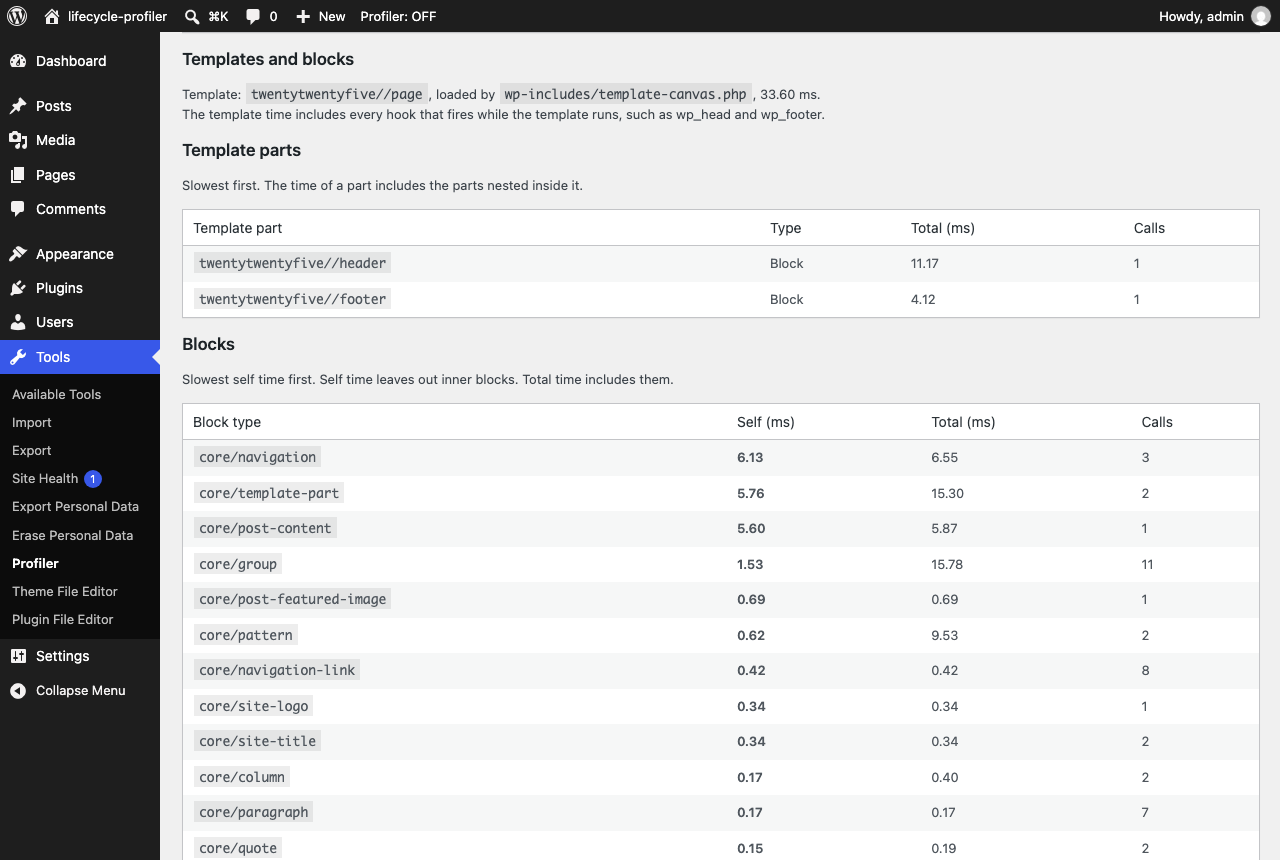
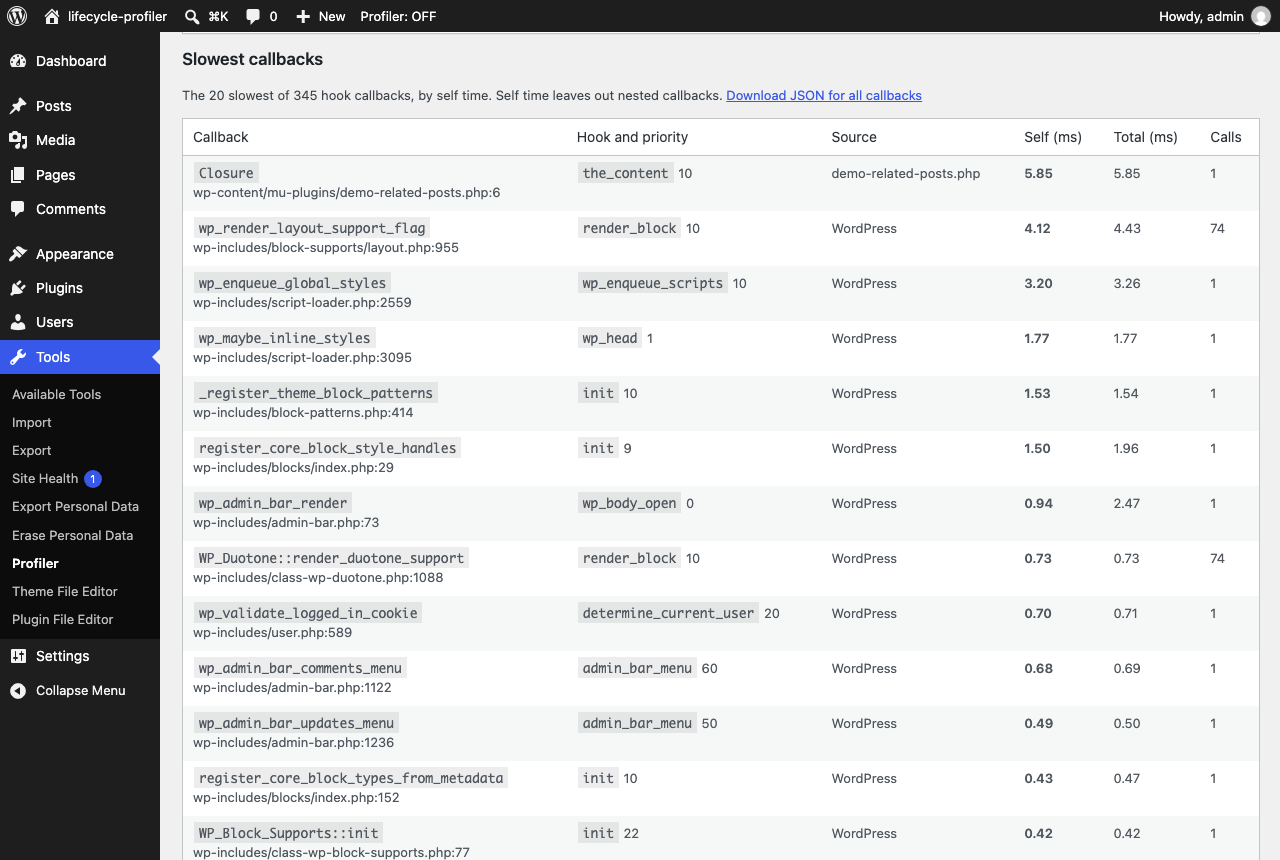
documentation: bring the README, readme and screenshots up to date for 1.0.0
- List every section of the report screen in screen order, including the
  slowest callbacks and the profiler time left out.
- Explain how the plugin differs from Query Monitor.
- Describe the loader rewrite and the multisite rule.
- Measure the overhead again with 1.0.0.
- Take the screenshots again and add one for the slowest callbacks.
- Say what the Excimer site is for.

diff --git a/bin/make-wordpress-org-assets.js b/bin/make-wordpress-org-assets.js
@@ -7,7 +7,8 @@
  * that folder to wordpress.org.
  *
  * Screenshots come from the wp-env development site, which must be running
- * and have at least two saved reports.
+ * and have at least two saved reports. The compare screenshot uses the two
+ * newest reports, so make them for the same page.
  *
  * Usage: node bin/make-wordpress-org-assets.js [--skip-screenshots]
  */
@@ -56,12 +57,15 @@ async function screenshots( browser ) {
 	await page.goto( site + '/wp-admin/tools.php?page=lifecycle-profiler' );
 	await shot( 1 );
 
-	await showHeading( 'Templates and blocks' );
+	await showHeading( 'Slowest callbacks' );
 	await shot( 2 );
+
+	await showHeading( 'Templates and blocks' );
+	await shot( 3 );
 
 	await page.goto( site + '/wp-admin/tools.php?page=lifecycle-profiler&view=compare' );
 	await showHeading( 'Plugins, themes and core' );
-	await shot( 3 );
+	await shot( 4 );
 
 	// Turn the session on for the admin bar screenshot, then off again.
 	const toggle = '#wp-admin-bar-lifecycle-profiler > a';
@@ -70,7 +74,7 @@ async function screenshots( browser ) {
 	await page.goto( site + '/sample-page/' );
 	await page.click( toggle );
 	await page.locator( toggle, { hasText: 'Profiler: ON' } ).waitFor();
-	await shot( 4 );
+	await shot( 5 );
 	await page.click( toggle );
 
 	await page.close();

diff --git a/README.md b/README.md
@@ -1,6 +1,6 @@
 # Lifecycle Profiler
 
-Lifecycle Profiler is a WordPress plugin that times the whole request. It measures bootstrap, the load time of each plugin and every hook callback. It sends the results in the `Server-Timing` header and offers a timing API.
+Lifecycle Profiler is a WordPress plugin that times the whole request. It measures bootstrap, the load time of each plugin, every hook callback, the template, template parts and blocks. It saves each run as a report, so you can compare a page before and after a change. It also sends the results in the `Server-Timing` header and offers a timing API.
 
 ## Status
 
@@ -19,12 +19,24 @@ Only users with the `manage_options` capability can start a session. Other visit
 
 The report shows:
 
-- the main phases of the request, from bootstrap to shutdown
-- load time and hook time for each plugin, theme and core
+- the request, the total time and how much profiler time it left out
+- load time and hook time for each mu-plugin, plugin, theme, drop-in and core
+- the 20 slowest hook callbacks, with the hook, the priority and the file and line where each one is defined
+- the main phases of the request, from bootstrap to shutdown. The phases add up to the total time.
 - the template, each template part and each block type, slowest first
 - custom spans from the timing API
 
-During a session, each response also has a `Server-Timing` header with the phase times. Your browser's developer tools show it in the network panel.
+The JSON download has every callback, not only the slowest 20.
+
+During a session, each response also has a `Server-Timing` header. It has one metric for each phase, and `lp-overhead` for the profiler time left out. Your browser's developer tools show it in the network panel.
+
+## How it differs from Query Monitor
+
+Query Monitor shows what happened during one request: database queries, HTTP calls, PHP errors, enqueued assets and more. It does not save anything, and it does not time each hook callback.
+
+Lifecycle Profiler shows where the time went. It times phases, plugin load, every callback, templates and blocks, and it saves reports so you can compare runs. It does not list queries or errors.
+
+The two plugins work well together. Use Query Monitor to find a slow query or an error. Use Lifecycle Profiler to measure the page before and after your fix. In an early review, the totals of both plugins matched for the same page.
 
 ## Timing API
 
@@ -38,7 +50,9 @@ Outside a profiling session, both functions do nothing, and `lifecycle_profiler_
 
 ## How it works
 
-On activation, the plugin writes `0-lifecycle-profiler-loader.php` to `mu-plugins/`. The loader runs before regular plugins, so the profiler can time plugin load. During a session, the profiler wraps every hook callback in a timer. At shutdown it saves the report in its own option, `lifecycle_profiler_report_{id}`, with autoload off. The `lifecycle_profiler_reports` option lists the saved reports. The `lifecycle_profiler_max_reports` filter changes how many reports to keep.
+On activation, the plugin writes `0-lifecycle-profiler-loader.php` to `mu-plugins/`. The loader runs before regular plugins, so the profiler can time plugin load. If the file is missing or out of date, an administrator's next admin page load writes it again. On deactivation, the plugin removes the file. On multisite, the file stays while the plugin is still active on another site or for the whole network.
+
+During a session, the profiler wraps every hook callback in a timer. At shutdown it saves the report in its own option, `lifecycle_profiler_report_{id}`, with autoload off. The `lifecycle_profiler_reports` option lists the saved reports. The `lifecycle_profiler_max_reports` filter changes how many reports to keep.
 
 ## Data and uninstall
 
@@ -60,17 +74,17 @@ Deleting the plugin removes every option that starts with `lifecycle_profiler_`,
 
 ## Overhead
 
-Without a session, the plugin adds about 1 ms to a page for visitors. During a session, it adds about 18 ms, or about 40%, because it wraps and times every hook callback.
+Without a session, the plugin adds about 1 ms or less to a page. During a session, it adds about 18 ms, or about 36%, because it wraps and times every hook callback.
 
 | Case | Logged out | Administrator |
 | --- | --- | --- |
-| Plugin inactive | 42.6 ms | 44.4 ms |
-| Plugin active, no session | 43.8 ms (+1.2 ms) | 47.8 ms (+3.4 ms) |
-| Plugin active, session | Not possible | 61.9 ms (+17.5 ms) |
+| Plugin inactive | 47.2 ms | 49.0 ms |
+| Plugin active, no session | 47.4 ms (+0.2 ms) | 50.4 ms (+1.3 ms) |
+| Plugin active, session | Not possible | 66.9 ms (+17.9 ms) |
 
-Each number is the median response time of `/sample-page/`, averaged over three runs. Each run made 100 requests per case after 10 warm-up requests. The site was the wp-env development site with PHP 7.4, WordPress 7.1.4 and Twenty Twenty-Five, in Docker on macOS.
+Each number is the median response time of `/sample-page/`, averaged over three runs. Each run made 100 requests per case after 10 warm-up requests. The site was the wp-env development site with PHP 7.4, WordPress 7.1.5 and Twenty Twenty-Five, in Docker on macOS. The numbers are from 2026-11-20, with version 1.0.0.
 
-The results change from run to run by up to about 4 ms. The administrator case without a session showed +0.8 ms to +4.9 ms. The session case gives the most stable result: +16.3 ms to +18.5 ms.
+The results change from run to run by up to about 2 ms. The administrator case without a session showed +1.0 ms to +1.5 ms. The session case showed +16.9 ms to +18.7 ms. It includes about 3 ms that the profiler spends at the start of each session to time its own costs.
 
 Reports leave out the profiler's own time. The profiler adds up the time its own code runs, and every time in a report subtracts it. Two costs happen outside the profiler's code: WordPress calling the profiler for every hook, and calling each callback wrapper. The profiler times both once when the session starts, and subtracts them too. Each report shows how much time it left out, and the `Server-Timing` header sends it as `lp-overhead`.
 
@@ -103,7 +117,7 @@ npm exec --no -- wp-env start
 
 The site runs at http://localhost:8888 with the plugin active. Log in with `admin` and `password`.
 
-A second site has the [Excimer](https://www.mediawiki.org/wiki/Excimer) PHP extension installed, for testing flame graphs:
+A second site has the [Excimer](https://www.mediawiki.org/wiki/Excimer) PHP extension installed. Use it to check the profiler's results against a sampling profiler:
 
 ```sh
 npm exec --no -- wp-env start --config=.wp-env.excimer.json
